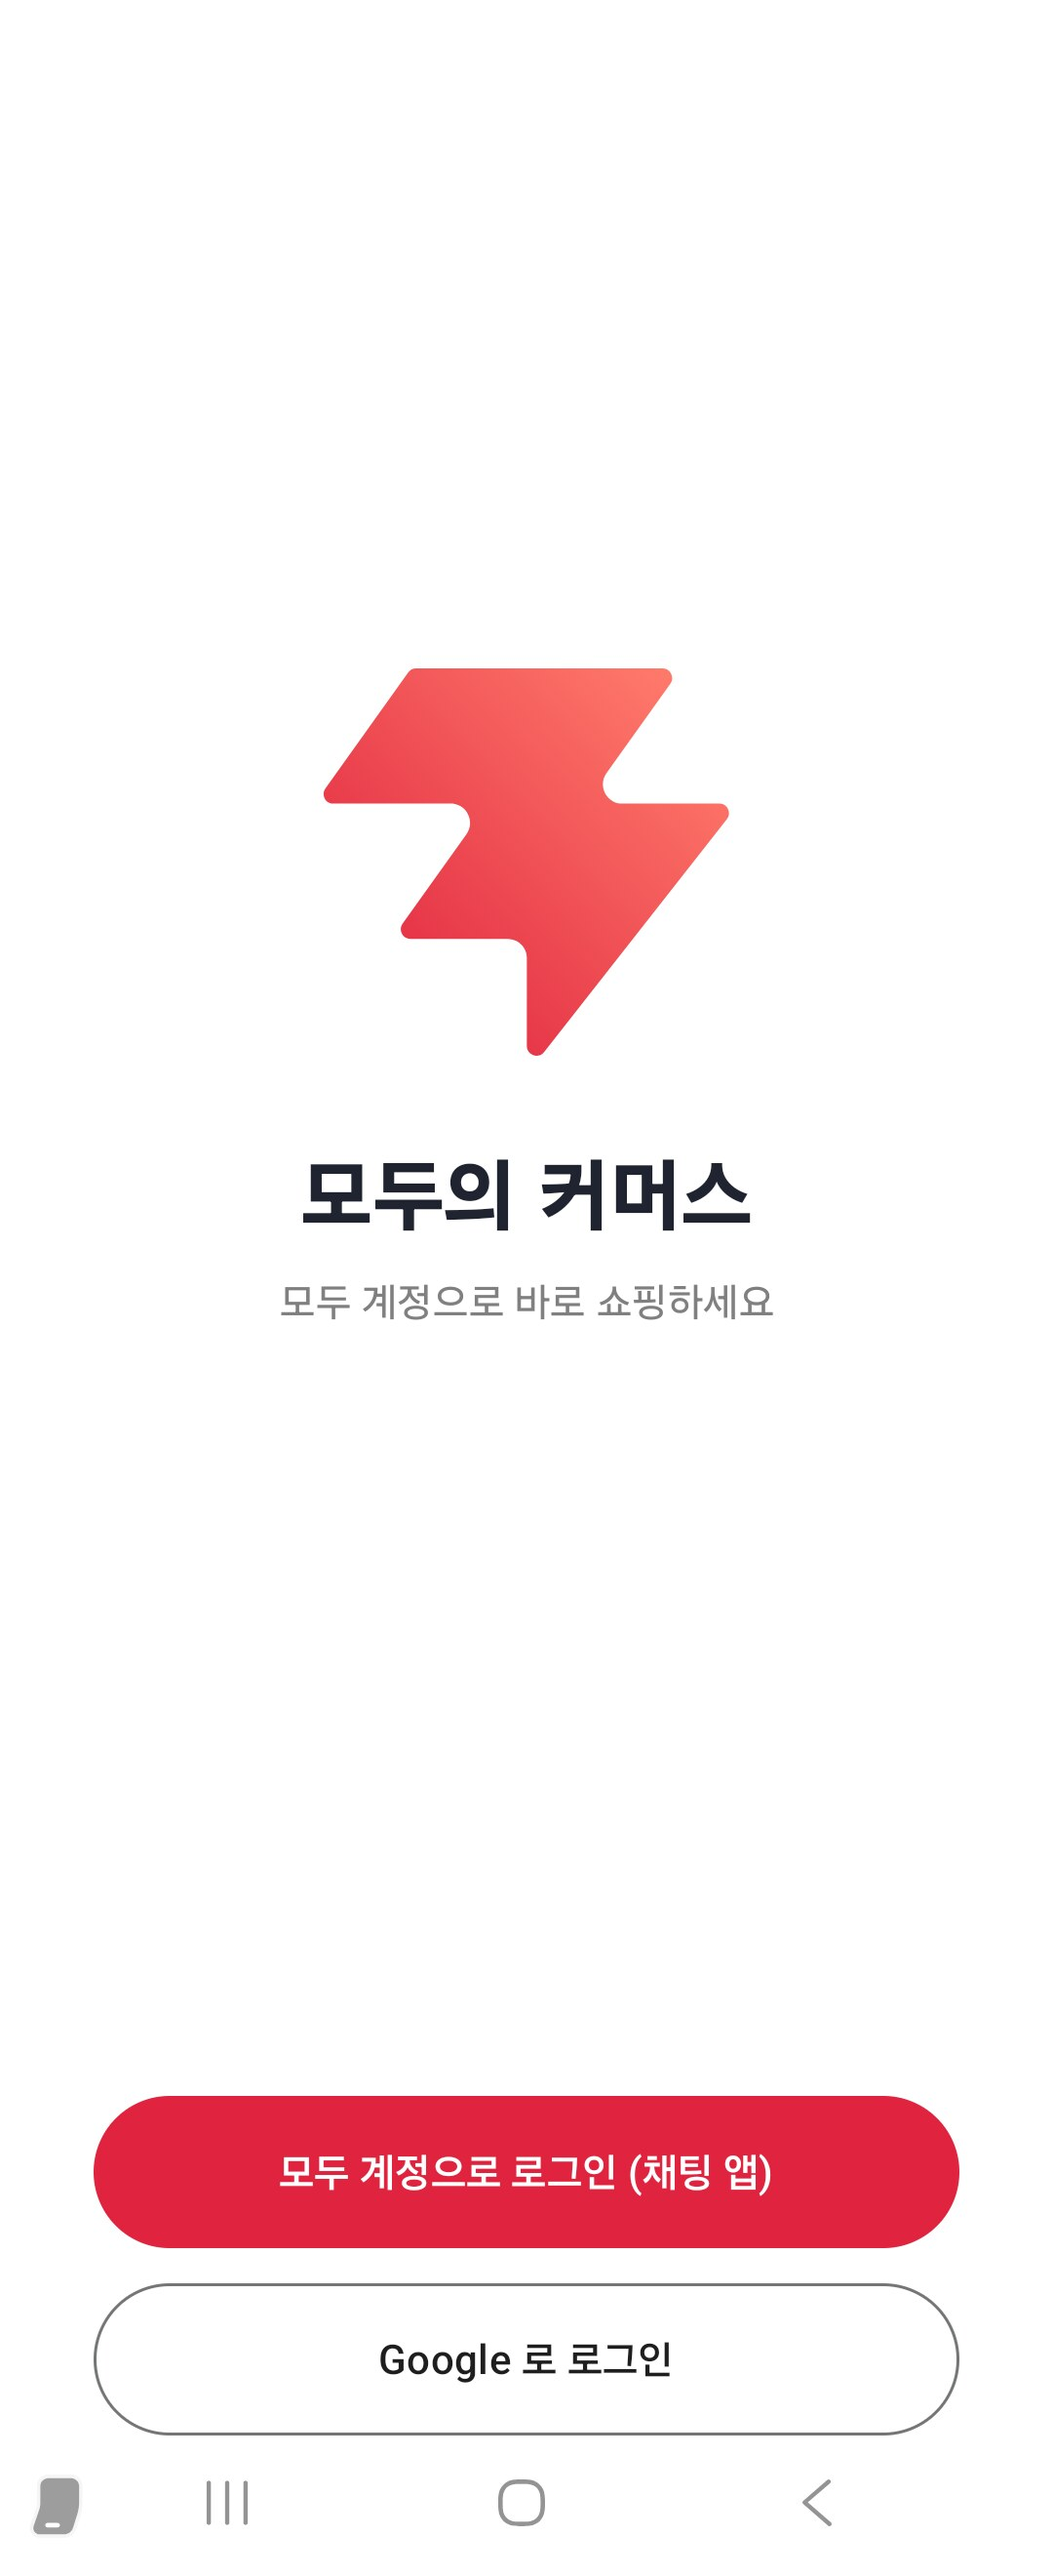
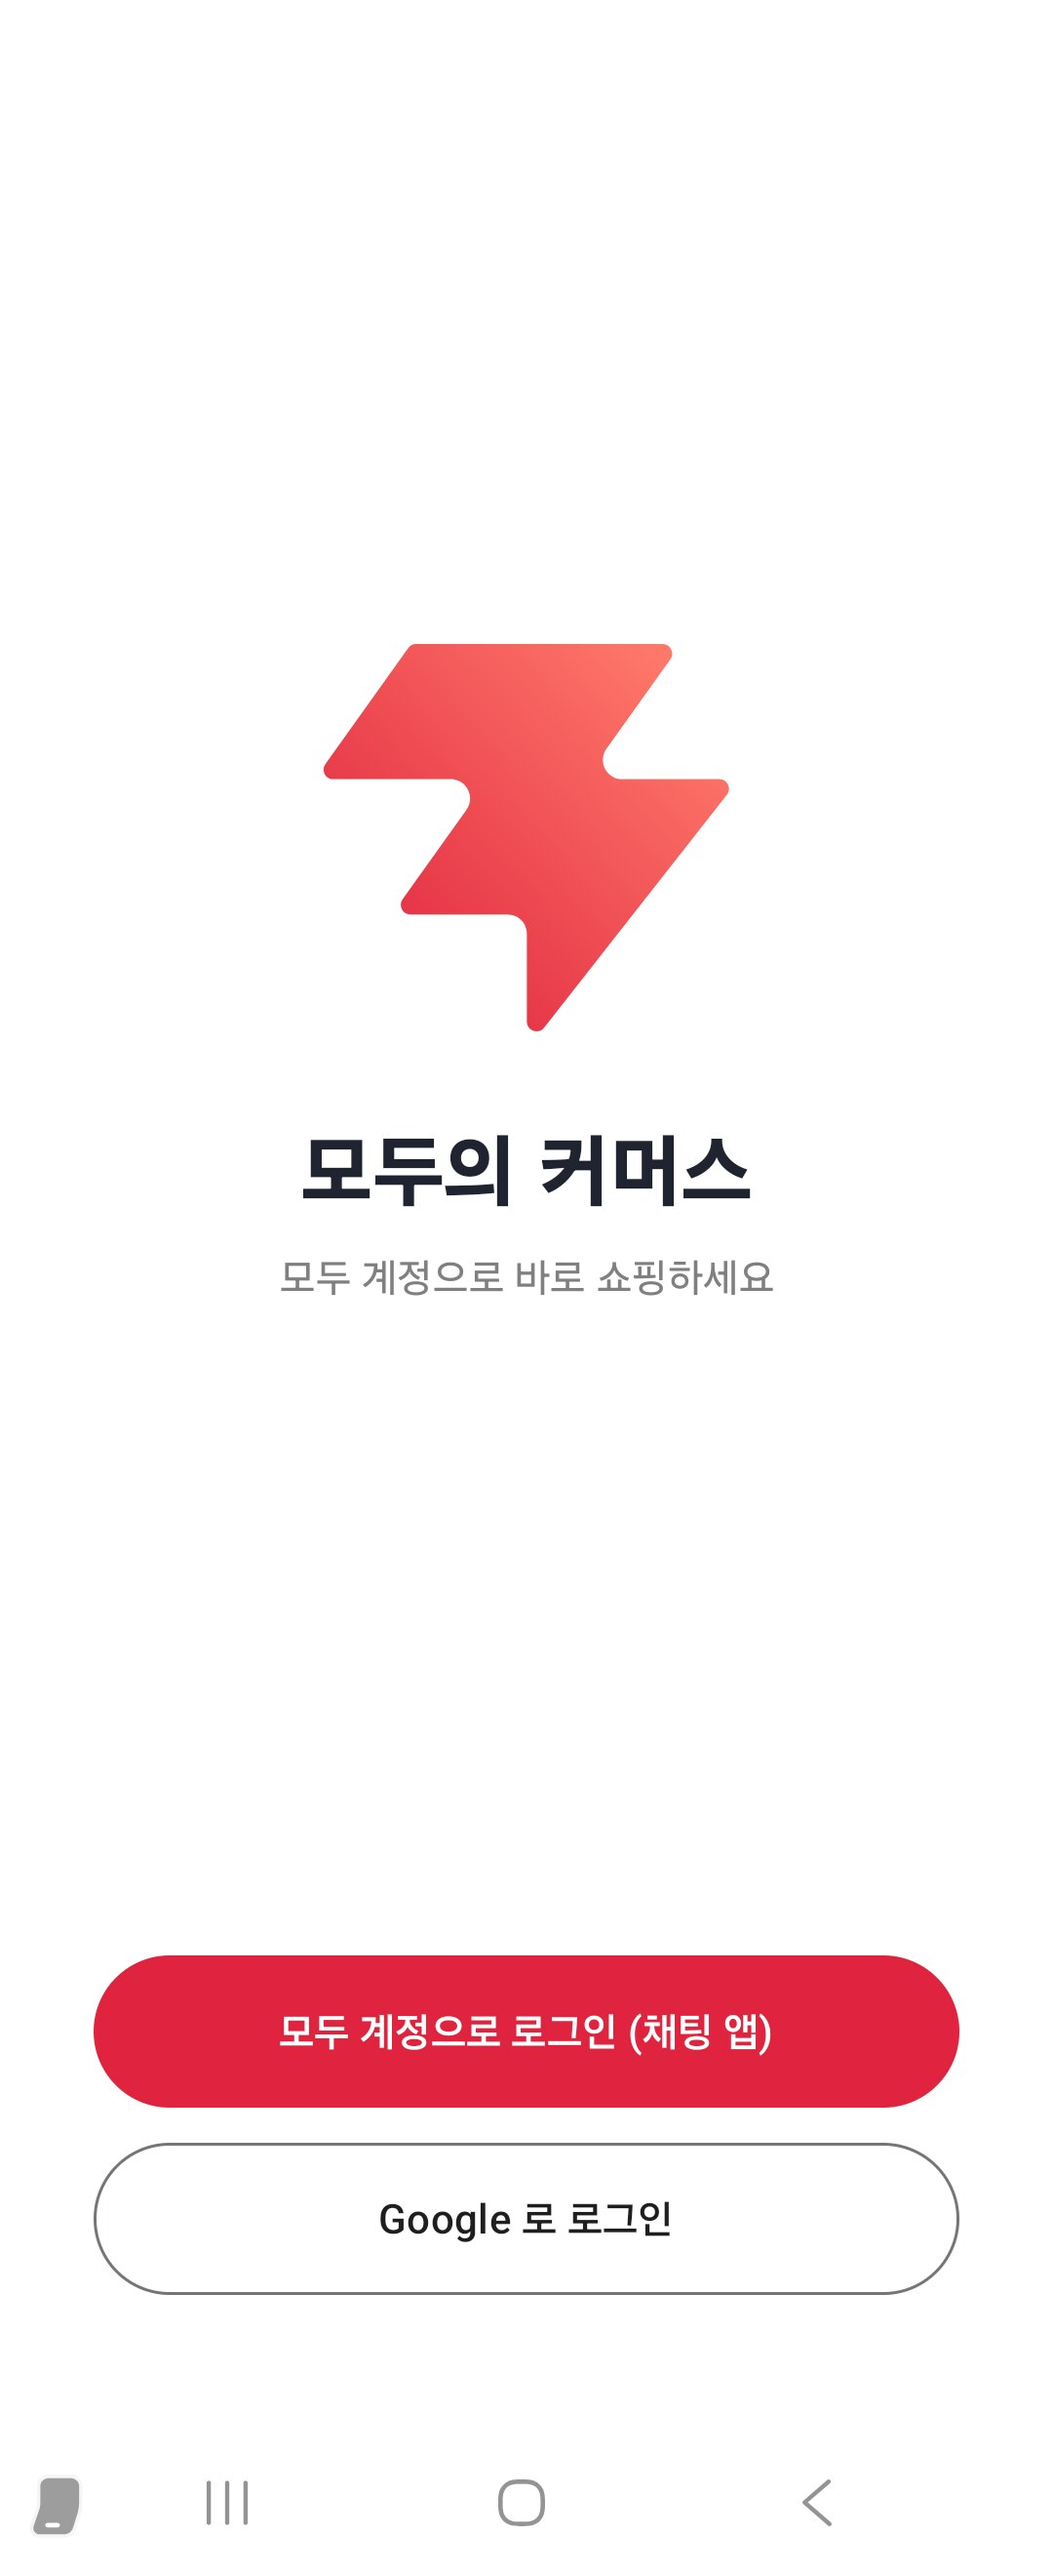
Fix: "로그인 화면 버튼이 내비게이션 바에 붙던 문제, 로그인 캡처 갱신"
- 앱이 edge-to-edge 라 로그인 화면이 시스템 바 밑까지 그려져, 맨 아래 여백(48dp)이 내비게이션 바에 가려 버튼이 바로 위에 붙어 보였다. systemBarsPadding 으로 바 높이만큼 비운다.
- README 캡처(images/login.jpg, sso_login.jpg)를 새 화면으로 다시 찍었다.

diff --git a/android/modu_commerce/app/src/main/kotlin/com/example/moducommerce/feature/login/LoginScreen.kt b/android/modu_commerce/app/src/main/kotlin/com/example/moducommerce/feature/login/LoginScreen.kt
@@ -12,6 +12,7 @@ import androidx.compose.foundation.layout.fillMaxSize
 import androidx.compose.foundation.layout.fillMaxWidth
 import androidx.compose.foundation.layout.height
 import androidx.compose.foundation.layout.padding
+import androidx.compose.foundation.layout.systemBarsPadding
 import androidx.compose.material3.Button
 import androidx.compose.material3.ButtonDefaults
 import androidx.compose.material3.MaterialTheme
@@ -56,8 +57,9 @@ fun LoginScreen(
         onFailure = viewModel::onGoogleFailed,
     )
 
+    // 앱이 edge-to-edge 라 화면이 시스템 바 밑까지 그려진다. 바 높이만큼 비워야 아래 버튼이 내비게이션 바에 붙지 않는다.
     Column(
-        modifier = Modifier.fillMaxSize().padding(horizontal = 32.dp),
+        modifier = Modifier.fillMaxSize().systemBarsPadding().padding(horizontal = 32.dp),
         horizontalAlignment = Alignment.CenterHorizontally,
     ) {
         Spacer(modifier = Modifier.weight(1f))
